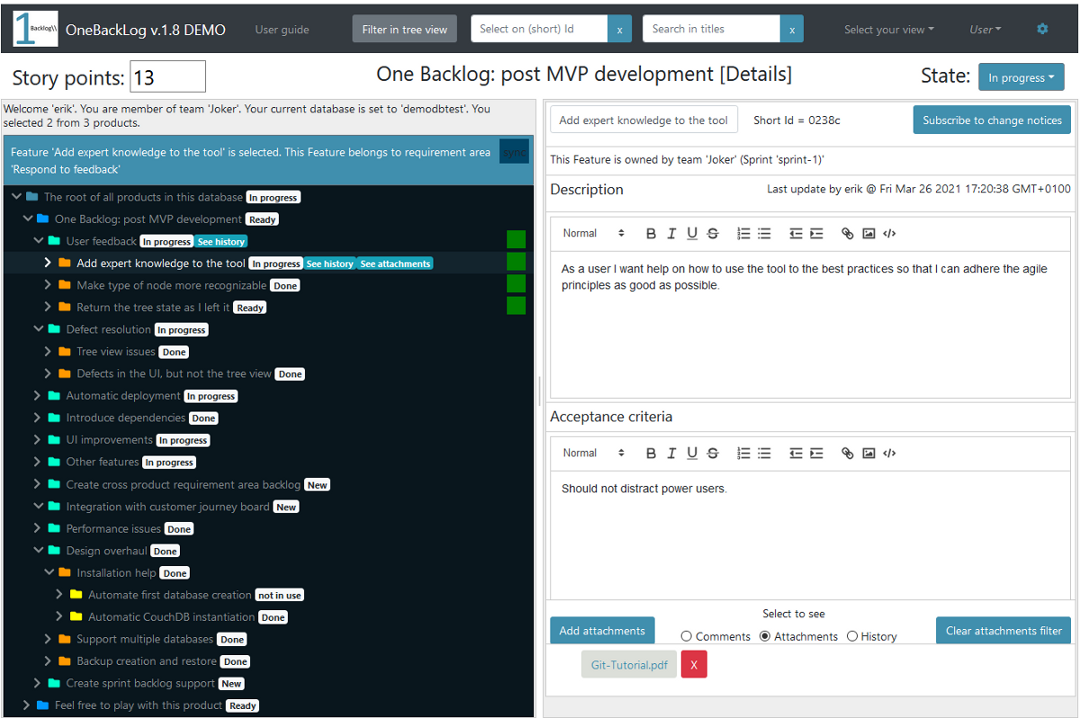
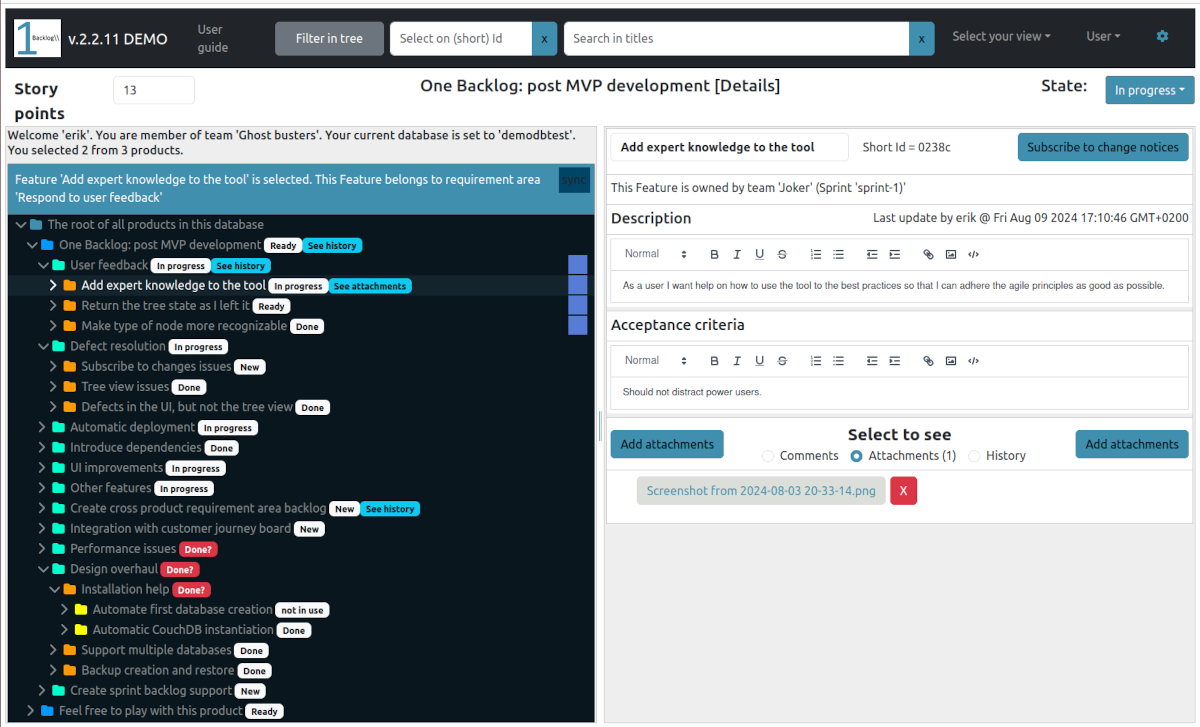
Prepare for release

diff --git a/src/components/rel-notes/Rel-Notes.vue b/src/components/rel-notes/Rel-Notes.vue
@@ -6,6 +6,21 @@
         <BCol cols="12" class="left-column">
           <h1>RELEASE NOTES</h1>
           <p v-if="store.state.demo">Note: This is a demo version of the application.</p>
+          <h3>v.2.2.11 - 9 August 2024 New and removed feature, bug fixex, refactoring</h3>
+          <p>Features</p>
+          <ul>
+            <li>Option to not send change notices to myself implementedd</li>
+            <li>Feature to add comments to history events is never used: removed</li>
+          </ul>
+          <p>Bug fixes:</p>
+          <ul>
+            <li>Missing email notifications added</li>
+            <li>Fix insertion in wrong array</li>
+          </ul>
+          <p>Refactoring</p>
+          <ul>
+            <li>Same look for the event list as the emailed event notifications</li>
+          </ul>
           <h3>v.2.2.10 - 6 August 2024 Bug fix, refactoring</h3>
           <p>Bug fix:</p>
           <ul>

diff --git a/src/components/header/header.js b/src/components/header/header.js
@@ -13,7 +13,7 @@ function created() {
 
 function data() {
 	return {
-		appVersion: 'v.2.2.10',
+		appVersion: 'v.2.2.11',
 		logo: logo,
 		disableOkButton: false,
 		oldPassword: '',
